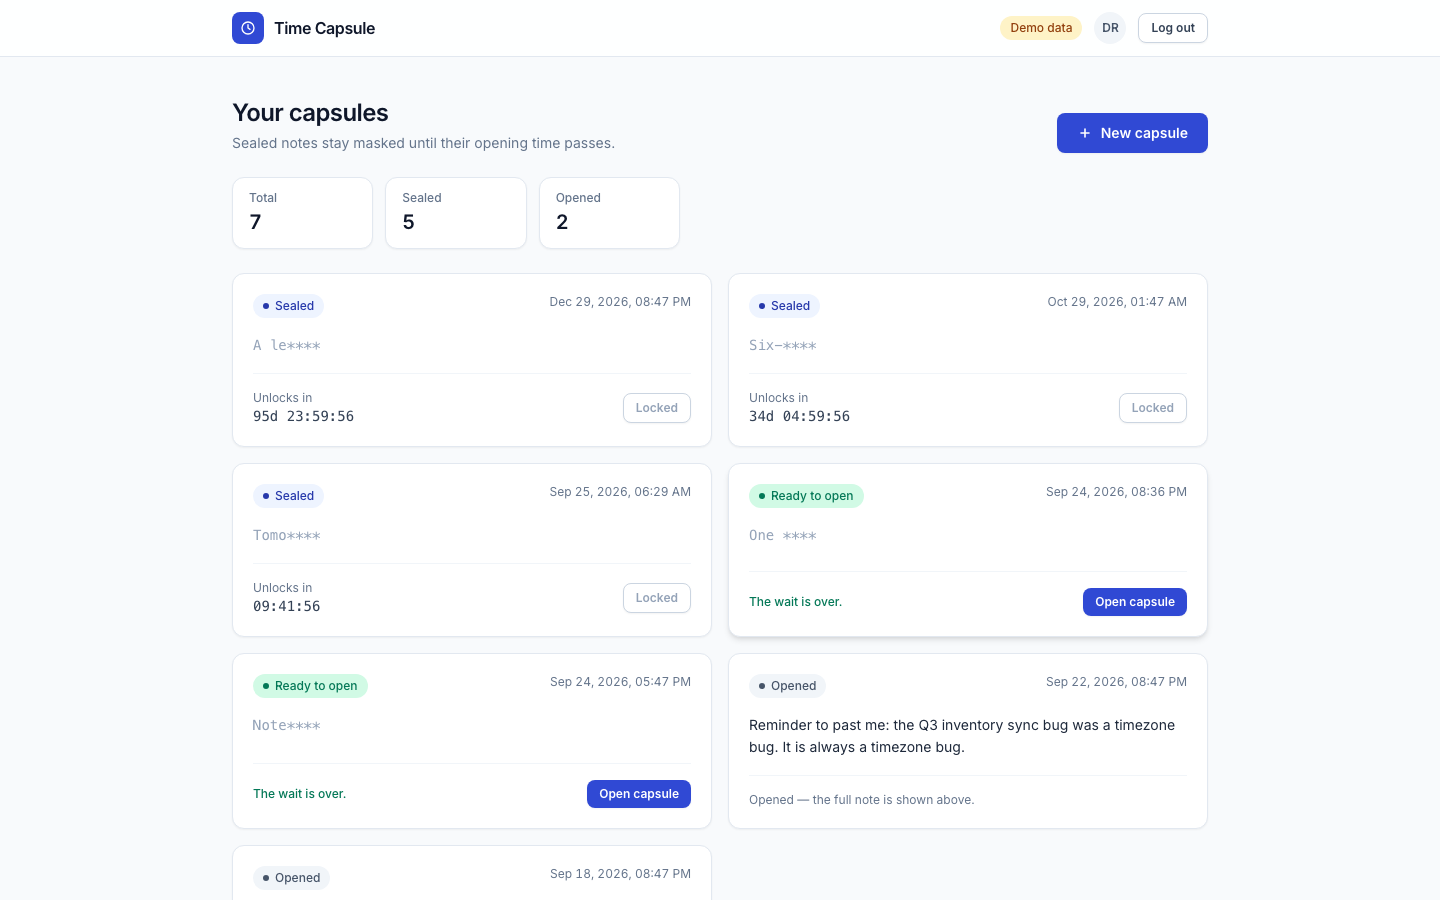
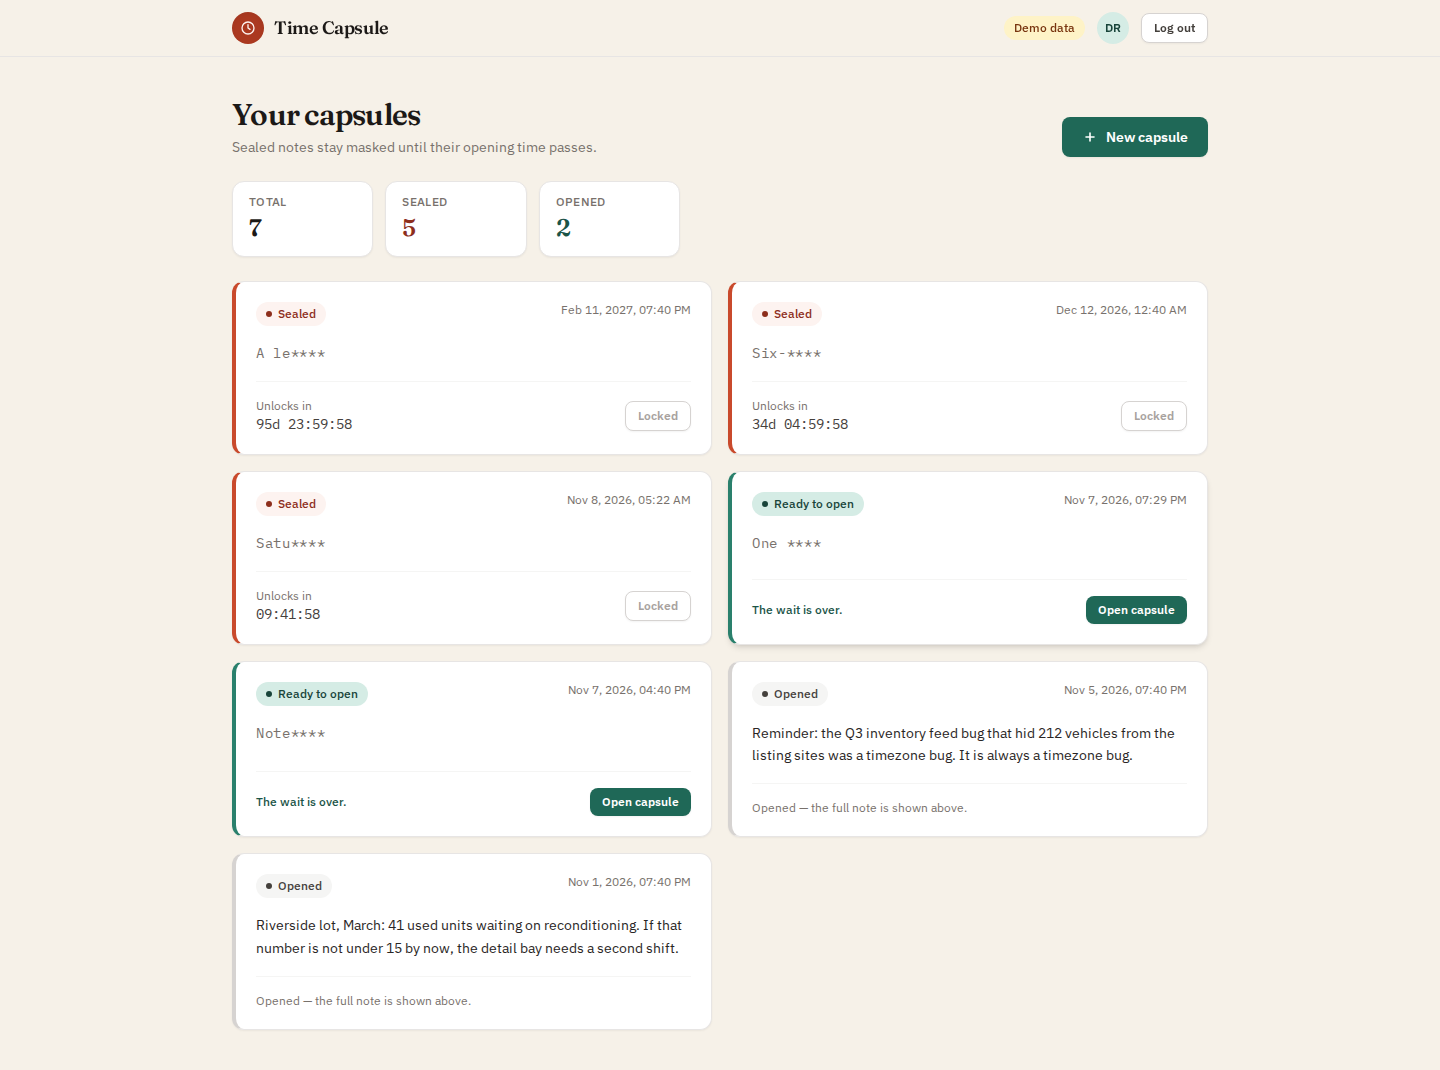
Rewrite the README for the Vite build and retake screenshots
- Docker Compose is now the first run path, and the image has actually
  been built and booted, so the "unproven" warning is gone
- VITE_* settings, Node 22, the new bundle sizes and test counts
- a layer diagram next to the source tree, and an accessibility note
- the "two places this client and that API disagree" section is
  replaced by how the client handles the data envelope now
- six screenshots of the restyled demo build, including sign-in at
  390px; MIT LICENSE added, since none existed

diff --git a/README.md b/README.md
@@ -1,27 +1,92 @@
-# Time Capsule — the Vue 3 client
+# Time Capsule: the Vue 3 client
 
 Write a note to your future self, pick the moment it may be read, and the note
 stays sealed until then. Sealing is enforced on the server: until the opening
 time passes the API returns only the first four characters of the note, so the
 rest never reaches the browser at all.
 
-> **The directory name does not describe this project.** `package.json` has been
+> **The directory name does not describe the app.** `package.json` has been
 > `time-capsule-app` since the first commit, and the companion API is a time
-> capsule API. Nothing here has anything to do with car dealers; read
-> `dealers-united-*` as the name of the exercise, not of the subject.
+> capsule API. Read `dealers-united-*` as the name of the exercise. The demo
+> data plays along: it is a fictional dealer group's reminders to itself.
 
-This repository is the frontend only — Vue 3, Vuex 4, Vue Router 4 and Tailwind
-on the Vue CLI 5 build. It talks to the Laravel API in the sibling
-`dealers-united-backend` repository (Fortify issues a Sanctum token, everything
-after that is a bearer header).
+This repository is the frontend only: Vue 3, Vuex 4, Vue Router 4 and Tailwind
+CSS, built and tested with Vite 8 and Vitest. It talks to the Laravel API in the
+sibling `dealers-united-backend` repository. Fortify issues a Sanctum token, and
+every request after that sends it as a bearer header.
+
+## What it looks like
+
+Every image was captured with Playwright against the demo build (the in-memory
+transport described below), at 1440x900 and 390x844. The header carries a
+"Demo data" badge, and every name and figure in the notes is made up.
+
+| The list: sealed, ready and opened capsules side by side |
+| --- |
+| ![Capsule list](docs/screenshots/02-capsule-list.png) |
+
+| One click later: Sealed 5 -> 4, Opened 2 -> 3 |
+| --- |
+| ![An opened capsule](docs/screenshots/03-capsule-opened.png) |
+
+| Sealing a new capsule |
+| --- |
+| ![New capsule form](docs/screenshots/04-new-capsule.png) |
+
+| Sign-in | Sign-in at 390px | The list at 390px |
+| --- | --- | --- |
+| ![Login](docs/screenshots/01-login.png) | ![Mobile login](docs/screenshots/06-mobile-login.png) | ![Mobile list](docs/screenshots/05-mobile-list.png) |
+
+The look is meant to suggest an archive of sealed letters: a paper background,
+deep green for anything ready or primary, sealing-wax red for anything still
+locked, Fraunces for headings, IBM Plex Sans for text and IBM Plex Mono for the
+countdowns and masked notes.
+
+## Run it
+
+### With Docker (no Node needed)
+
+Demo mode needs no backend. An in-memory transport stands in for HTTP,
+including the masking rule and the 403:
+
+```bash
+VITE_DEMO=true docker compose up --build
+# http://localhost:8640   (any non-empty email and password signs you in)
+```
+
+To run against a real API instead, set the URL at build time:
+
+```bash
+VITE_API_BASE_URL=https://api.example.com/api/v1/ docker compose up --build
+```
+
+The image is a three-stage build (`npm ci`, then `vite build`, then nginx). It
+runs as the unprivileged `nginx` user on a read-only filesystem and exposes a
+`/healthz` check that Compose polls.
+
+### With Node 22
+
+`.nvmrc` and `engines` both ask for Node 22 (Vite 8 needs 22.12 or newer).
+
+```bash
+npm install
+npm run dev:demo       # http://localhost:8080, fixture data
+```
+
+Against a running backend:
+
+```bash
+cp .env.example .env   # point VITE_API_BASE_URL at your backend
+npm run dev
+```
 
 ## A capsule has three states
 
 ```mermaid
 stateDiagram-v2
     [*] --> Sealed: POST users/{id}/message-capsules
-    Sealed --> Unlockable: the shared clock passes scheduled_opening_time
-    Unlockable --> Opened: PUT .../open returns the full note
+    Sealed --> Ready: the shared clock passes scheduled_opening_time
+    Ready --> Opened: PUT .../open returns the full note
     Sealed --> Sealed: PUT .../open is refused with 403
     Opened --> [*]
 
@@ -30,68 +95,40 @@ stateDiagram-v2
       Every card shows a live countdown
     end note
 
-    note right of Unlockable
+    note right of Ready
       A browser-side label only
       The server decides again when the request arrives
     end note
 ```
 
-Only two of those states exist in the API's data: `is_opened` is a capsule's one
-mutable field. **Unlockable is a client-side reading of the clock** —
+Only two of those states exist in the API's data. `is_opened` is the only field
+of a capsule that ever changes. **Ready is the client's reading of the clock.**
 `CapsuleCard` compares `scheduled_opening_time` against the shared ticker and
 enables the button, while the server checks again and answers `403` if the
 browser was optimistic. The disabled button is a courtesy; the 403 is the rule.
 
-The countdown is where the cost is. One capsule per card means one `setInterval`
-per card, so `composables/useNow.js` runs exactly one timer at module level and
-every card derives from it — a list of 500 capsules still costs one interval,
-and a unit test pins that by spying on `setInterval` across three subscribers.
-
-## What it looks like
-
-All five images were captured with Playwright at 1440x900 (the last at 390x844)
-against the app in demo mode, so the data is the fixture set in
-`src/api/demoFixtures.js` and the header carries a "Demo data" badge.
-
-| The list — sealed, unlockable and opened side by side |
-| --- |
-| ![Capsule list](docs/screenshots/02-capsule-list.png) |
-
-| The same list a click later. Sealed 5 -> 4, Opened 2 -> 3 |
-| --- |
-| ![An opened capsule](docs/screenshots/03-capsule-opened.png) |
-
-| Sealing a new capsule |
-| --- |
-| ![New capsule form](docs/screenshots/04-new-capsule.png) |
-
-| Sign-in | The list at 390px |
-| --- | --- |
-| ![Login](docs/screenshots/01-login.png) | ![Mobile list](docs/screenshots/05-mobile-list.png) |
-
-## Run it
-
-Demo mode needs no backend at all — an in-memory transport stands in for HTTP,
-including the masking rule and the 403:
-
-```bash
-npm install
-npm run serve:demo     # http://localhost:8080
-```
-
-Any non-empty email and password will sign you in there. Against the real API:
-
-```bash
-cp .env.example .env   # point VUE_APP_API_BASE_URL at your backend
-npm install
-npm run serve
-```
+The countdown is where the cost is. One timer per card would mean one
+`setInterval` per card, so `composables/useNow.js` runs exactly one timer at
+module level and every card derives from it. A list of 500 capsules still costs
+one interval, and a unit test pins that by spying on `setInterval` across three
+subscribers.
 
 ## Where each rule lives
 
 Dependencies point one way: a view uses the store, the store uses the API
 client, the client uses a transport. No component imports axios and no component
 builds a URL.
+
+```mermaid
+flowchart LR
+    V[views and components] --> S[Vuex store<br/>auth, capsules, ui]
+    S --> C[createApiClient]
+    C --> H[httpTransport<br/>axios + bearer token]
+    C --> D[demoTransport<br/>in-memory fixtures]
+    H --> A[(Laravel API)]
+    S --> SE[lib/session.js<br/>the only cookie code]
+    H --> SE
+```
 
 ```
 src/
@@ -102,69 +139,52 @@ src/
 │   └── ApiError.js       the one error shape the UI renders
 ├── store/modules/  auth (profile, sign-in, rehydration), capsules
 │                   (list, sorting, paging, create, open), ui (in-flight count)
-├── lib/            datetime.js, session.js (the only file that touches
-│                   cookies), env.js
-├── composables/    useNow.js — the single 1 Hz clock
+├── lib/            datetime.js, session.js, env.js
+├── composables/    useNow.js, the single 1 Hz clock
 ├── components/     CapsuleCard, AppHeader, pagination, skeletons, ui/ primitives
 ├── views/          Login, Signup, MessageList, AddMessage, NotFound
 └── router/         lazy routes plus the auth guard
 ```
 
 `createApiClient()` and `createAppStore()` both take their dependencies as
-arguments, which is what lets the unit suite run the real Vuex actions against
-the fixture transport instead of a pile of mocks. That same seam is what demo
-mode and the screenshots above are built on.
+arguments. That is what lets the unit suite run the real Vuex actions against
+the fixture transport instead of a pile of mocks, and it is the same seam demo
+mode and the screenshots are built on. The demo transport answers in the API's
+own shape (a `data` envelope, masked notes, ISO instants), so a response-shape
+bug shows up in demo mode too.
 
-Routes are lazy, so signing in loads `chunk-vendors` (165.00 KiB) plus `app`
-(16.97 KiB) and `auth` (14.91 KiB), and leaves the `capsules` chunk (19.61 KiB)
-on the server until it is needed. Production source maps are off; a full `dist/`
-is 260 KB.
+Routes are lazy. The shared `index` chunk is 189 KB (70 KB gzipped) and holds
+Vue, Vuex, the router and axios; each view is its own chunk, the largest being
+the capsule list at 8.4 KB. Production source maps are off, and a full `dist/`
+is under 300 KB.
 
 ## The API it speaks to
 
 | Method | Path | Used by |
 | --- | --- | --- |
-| `POST` | `/api/v1/register` | `auth/signup` — returns `{ user, token }` |
-| `POST` | `/api/v1/login` | `auth/login` — returns `{ user, token }` |
+| `POST` | `/api/v1/register` | `auth/signup`, returns `{ user, token }` |
+| `POST` | `/api/v1/login` | `auth/login`, returns `{ user, token }` |
 | `GET` | `/api/v1/user` | `auth/hydrate`, after a full page reload |
 | `GET` | `/api/v1/users/{id}/message-capsules` | `capsules/fetchAll` |
 | `POST` | `/api/v1/users/{id}/message-capsules` | `capsules/create` |
 | `PUT` | `/api/v1/users/{id}/message-capsules/{capsuleId}/open` | `capsules/open` |
 
-Errors are always `{"message": "..."}`, with `errors` added on a 422. `401` means
-the token is missing or invalid — the boot-time profile fetch treats that as a
-stale cookie and clears the session rather than leaving the app half signed in.
-`403` means authenticated but not allowed, which is how "too early" arrives.
-`normaliseError()` turns all of it — including a rejection with no response at
-all, such as an offline browser — into a single `ApiError` carrying `status`, a
+The three capsule endpoints answer with a `MessageCapsuleResource`, so the body
+is wrapped in `data`; the client unwraps it in one place. Errors are always
+`{"message": "..."}`, with `errors` added on a 422. `401` means the token is
+missing or invalid, and the boot-time profile fetch treats that as a stale
+cookie and clears the session rather than leaving the app half signed in. `403`
+means authenticated but not allowed, which is how "too early" arrives.
+
+`normaliseError()` turns all of it, including a rejection with no response at
+all such as an offline browser, into a single `ApiError` carrying `status`, a
 displayable `message` and `fieldErrors`. Views render `error.message` in a banner
 and `error.fieldErrors[name]` under the matching input; nothing reaches into
 `error.response.data`.
 
 The listing endpoint returns every capsule the user owns in one response. The
-store therefore pages in the browser, so the DOM holds `VUE_APP_PAGE_SIZE` cards
+store therefore pages in the browser, so the DOM holds `VITE_PAGE_SIZE` cards
 however large the response grows. That bounds rendering, not transfer.
-
-## Two places this client and that API disagree
-
-Both are real, both are in the code today, and the backend's README describes
-them from its side.
-
-1. **`createCapsule` does not unwrap `data`.** `POST` returns a
-   `MessageCapsuleResource`, so the created capsule arrives wrapped in `data`.
-   `listCapsules` and `openCapsule` both unwrap it; `createCapsule` returns the
-   body as-is, so `capsules/create` commits an object with no `id` and the
-   `upsert` mutation early-returns. It is invisible in practice — the form
-   navigates to the list, which refetches — and invisible in demo mode, whose
-   transport returns the bare model. Against the real API the optimistic insert
-   simply does nothing.
-2. **The comments describe an older response shape.** `src/lib/datetime.js` is
-   written around a naive `"2024-03-01 12:00:00"` assumed to be UTC, and
-   `store/modules/capsules.js` re-masks the note after a create because "the
-   create endpoint returns the raw model". The API now sends ISO-8601 with an
-   explicit `Z` and masks in the resource for every endpoint. `parseServerDate`
-   handles both forms, so the two agree on the instant — the prose is what is
-   stale.
 
 ## Time is the hard part of this app
 
@@ -173,68 +193,69 @@ Every rule about time lives in `src/lib/datetime.js` and is unit-tested there.
 - A `datetime-local` input is a wall-clock reading in the browser's timezone with
   no offset. It is converted to an absolute ISO instant before it is sent, so a
   capsule set for 9am local unlocks at 9am local rather than at 9am UTC.
-- `parseServerDate` normalises a naive server string to `...Z` instead of handing
-  it to `new Date()`, which is unspecified for that format and has historically
-  returned `Invalid Date` in Safari. ISO strings with an offset pass straight
-  through.
+- The API sends ISO-8601 with an explicit `Z`. Older backend builds sent a naive
+  `"2024-03-01 12:00:00"` in UTC; `parseServerDate` normalises that form to
+  `...Z` instead of handing it to `new Date()`, which is unspecified for it and
+  has returned `Invalid Date` in Safari.
 - Countdowns break out days, so a capsule a month away reads `34d 04:59:56` and
   not `820:59:56`.
 
 ## Build-time settings
 
-Vue CLI inlines `VUE_APP_*` at compile time, so changing one means rebuilding,
-not restarting. That is also why the Docker image takes the API URL as a build
-argument rather than an environment variable.
+Vite inlines `VITE_*` at build time, so changing one means rebuilding, not
+restarting. That is also why the Docker image takes them as build arguments.
 
 | Variable | Default | Purpose |
 | --- | --- | --- |
-| `VUE_APP_API_BASE_URL` | `http://localhost/api/v1/` | Base URL including the `v1` prefix. A trailing slash is added if you omit one. |
-| `VUE_APP_DEMO` | `false` | Replace HTTP with the in-memory fixture transport. No request leaves the browser. |
-| `VUE_APP_PAGE_SIZE` | `8` | Capsules rendered per page. |
+| `VITE_API_BASE_URL` | `http://localhost/api/v1/` | Base URL including the `v1` prefix. A trailing slash is added if you omit one. |
+| `VITE_DEMO` | `false` | Replace HTTP with the in-memory fixture transport. No request leaves the browser. |
+| `VITE_PAGE_SIZE` | `8` | Capsules rendered per page. |
 | `WEB_PORT` | `8640` | Host port published by `docker-compose.yml`. Compose only. |
 
 ## Checks
 
 ```bash
-npm test               # vitest run
+npm test               # Vitest: 19 files, 129 tests
 npm run test:coverage  # V8 coverage
-npm run lint:check     # ESLint (vue3-recommended + prettier), no --fix
+npm run lint:check     # ESLint 10 flat config (eslint-plugin-vue + prettier), no --fix
 npm run format:check   # Prettier
 npm run build          # production bundle into dist/
 ```
 
-`npm test` is 18 files, 123 tests. No test touches the network: `tests/setup.js`
-replaces `fetch` and `XMLHttpRequest` with stubs that throw, and the store and
-view specs run against the same in-memory transport demo mode uses.
+No test touches the network. `tests/setup.js` replaces `fetch` and
+`XMLHttpRequest` with stubs that throw, and the store and view specs run against
+the same in-memory transport that demo mode uses.
 
-A multi-stage `Dockerfile` (deps -> webpack build -> nginx, unprivileged, with a
-`/healthz` check) and a `docker-compose.yml` are committed, and
-`docker compose config` parses. **The image has not been built or booted here** —
-no Docker daemon was available — so treat it as unproven. The API URL goes in at
-build time:
+## Accessibility
 
-```bash
-docker compose build --build-arg VUE_APP_API_BASE_URL=https://api.example.com/api/v1/
-```
+Every signed-in page starts with a skip link to its `main` landmark. Headings
+run h1 then h2 without gaps, form errors are tied to their inputs with
+`aria-describedby`, the loading list announces itself through `role="status"`,
+and one focus ring is drawn for every focusable element. Animations stop under
+`prefers-reduced-motion`.
 
 ## What it does not do
 
 - **The bearer token sits in a JavaScript-readable cookie.** That is the shape
-  Fortify's login response offers and the interceptor has to read it from
-  somewhere. An httpOnly cookie or a refresh flow would fix it and both need
+  Fortify's login response offers, and the interceptor has to read it from
+  somewhere. An httpOnly cookie or a refresh flow would fix it, and both need
   backend changes.
 - **No edit, no delete, no single-capsule view.** The API exposes `index`,
   `show`, `store` and `open`, and there is deliberately no UI for anything it
   cannot do.
-- **Paging is client-side.** The API has since grown an opt-in `?per_page=`; this
-  client does not send it, so a user with ten thousand capsules still downloads
-  all of them.
-- **Nothing announces an unlock.** There is no polling and no socket — a sealed
-  capsule becomes unlockable on screen because the countdown reaches zero, but
-  the list itself is fetched when the view is created and then only by the retry
+- **Paging is client-side.** The API has since grown an opt-in `?per_page=`;
+  this client does not send it, so a user with ten thousand capsules still
+  downloads all of them.
+- **Nothing announces an unlock.** There is no polling and no socket. A sealed
+  capsule becomes ready on screen because the countdown reaches zero, but the
+  list itself is fetched when the view is created and then only by the retry
   button.
 - **The demo transport ships in the production bundle.** That is the price of
-  `npm run serve:demo` working from a clean checkout.
+  demo mode working from a plain build.
 - **No end-to-end tests, no offline support, no i18n, no dark theme.** The suite
-  is unit and component level; the Playwright run that produced the screenshots
-  asserts nothing. Dates use the browser's locale, the rest is English.
+  is unit and component level. Dates use the browser's locale; the rest is
+  English.
+
+## License
+
+MIT, see [LICENSE](LICENSE).
